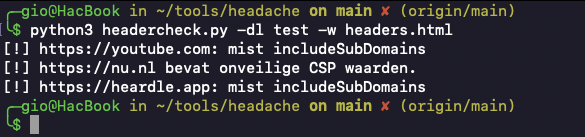
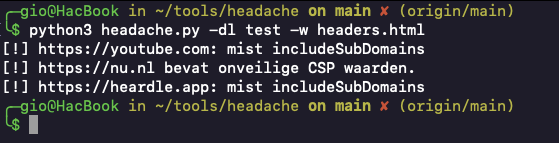
filenaam veranderd

Changed region(s): [[0.0, 0.0292, 0.9428, 0.9927]]

diff --git a/headache.py b/headache.py
@@ -1,0 +1,154 @@
+import requests, json, re, pandas, argparse
+
+def parse_arguments():
+    parser = argparse.ArgumentParser()
+    parser.add_argument("-dl", "--domainlist", help="list of domains")
+    parser.add_argument("-w", "--writefile", help="write to file instead of printing it to the screen")
+    args = parser.parse_args()
+    
+    return args
+
+
+security_headers = [
+    "content-security-policy",
+    "x-content-type-options",
+    "strict-transport-security",
+    "x-frame-options",
+    "referrer-policy",
+    "permissions-policy"
+]
+
+absent_headers = []
+
+def inadequate_csp(domain, header):
+    header = header.replace(" ","")
+    script_src_val = re.search("script-src[^;]+", header)[0]
+    unsafe_keywords = ["unsafe-eval", "unsafe-inline", "*", "data"]
+
+    if any(ele in script_src_val for ele in unsafe_keywords):
+        print(f"[!] {domain} bevat onveilige CSP waarden.")
+        return True
+    
+    return False
+
+def inadequate_hsts(domain, header):
+    min_age = 10368000
+    max_age_val = int(re.search('max-age=(\d+);?', header)[1])
+
+    if "includesubdomains" not in header:
+        print(f"[!] {domain}: mist includeSubDomains")
+        return True
+    elif max_age_val < min_age:
+        print(f"[!] {domain}: Max-age is korter dan 10368000<br>")
+        return True
+
+    return False
+
+def fetch_headers(domains):
+    """ Fetches all response headers from all domains, and checks what headers are not in the security_headers list """
+
+    for domain in domains:
+        domain = domain[:-1]
+        temp_dict = {"domain" : domain}
+        domain = domain if domain[:4] == "http" else "https://" + domain
+        try:
+            response = requests.get(domain, allow_redirects = True) #verify=False
+            response_headers = dict((k.lower(), v.lower()) for k,v in response.headers.items())
+
+            for sec_header in security_headers:
+                if sec_header not in response_headers:
+                    temp_dict[sec_header] = False
+                else:
+                    if sec_header == "content-security-policy":
+                        value_csp = response_headers[sec_header]
+
+                        if inadequate_csp(domain, value_csp):
+                            temp_dict[sec_header] = "Onvoldoende"
+                        else:
+                            temp_dict[sec_header] = True
+                    elif sec_header == "strict-transport-security":
+                        value_hsts = response_headers[sec_header]
+
+                        if inadequate_hsts(domain,value_hsts):
+                            temp_dict[sec_header] = "Onvoldoende"
+                        else:
+                            temp_dict[sec_header] = True
+                    else:
+                        temp_dict[sec_header] = True
+
+            absent_headers.append(temp_dict)
+        # https://stackoverflow.com/questions/16511337/correct-way-to-try-except-using-python-requests-module
+        except requests.exceptions.HTTPError as errh:
+            print ("Http Error:",errh)
+        except requests.exceptions.ConnectionError as errc:
+            print ("Probleem met verbinding:",errc)
+        except requests.exceptions.Timeout as errt:
+            print ("Timeout Error:",errt)
+        except requests.exceptions.RequestException as err:
+            print ("Iets ging verkeerd, geen idee wat:",err)
+
+
+def convert_to_html(write_to_file=False):
+    """ Converts the  dictionary to a nice HTML table """
+    json_absent_headers = json.dumps(absent_headers)
+    df = pandas.read_json(json_absent_headers)
+
+    table = df.to_html(index=False, table_id="tbl")
+    table = table.replace("<td>Onvoldoende</td>","<td class='onvoldoende'>Onvoldoende</td>")
+    table = table.replace("<td>False</td>","<td class='false'>False</td>")
+    table = table.replace("<td>True</td>", "<td class='true'>True</td>")
+    # https://www.w3schools.com/css/tryit.asp?filename=trycss_table_fancy
+    css = """
+    <style>
+    .true {
+        color: green;
+    }
+    .onvoldoende {
+        color: orange;
+    }
+    .false {
+        color: red;
+    }
+    #tbl {
+        font-family: Arial, Helvetica, sans-serif;
+        border-collapse: collapse;
+        width: 100%;
+    }
+
+    #tbl td, #tbl th {
+        border: 1px solid #ddd;
+        padding: 8px;
+    }
+
+    #tbl tr:nth-child(even){background-color: #f2f2f2;}
+
+    #tbl tr:hover {background-color: #ddd;}
+
+    #tbl th {
+        padding-top: 12px;
+        padding-bottom: 12px;
+        text-align: left;
+        background-color: #04AA6D;
+        color: white;
+    }
+    </style>
+    """
+    pretty_table = css + table
+    
+    if write_to_file:
+        file = open(write_to_file,"w")
+        file.write(pretty_table)
+        file.close()
+    else:
+        print(pretty_table)
+
+def main():
+    args = parse_arguments()
+    domains = open(args.domainlist, "r")
+    #domains = open("test", "r") #voor debuggen
+    fetch_headers(domains)
+    #convert_to_html() # voor debuggen
+    convert_to_html(args.writefile)
+
+if __name__ == "__main__":
+    main()
